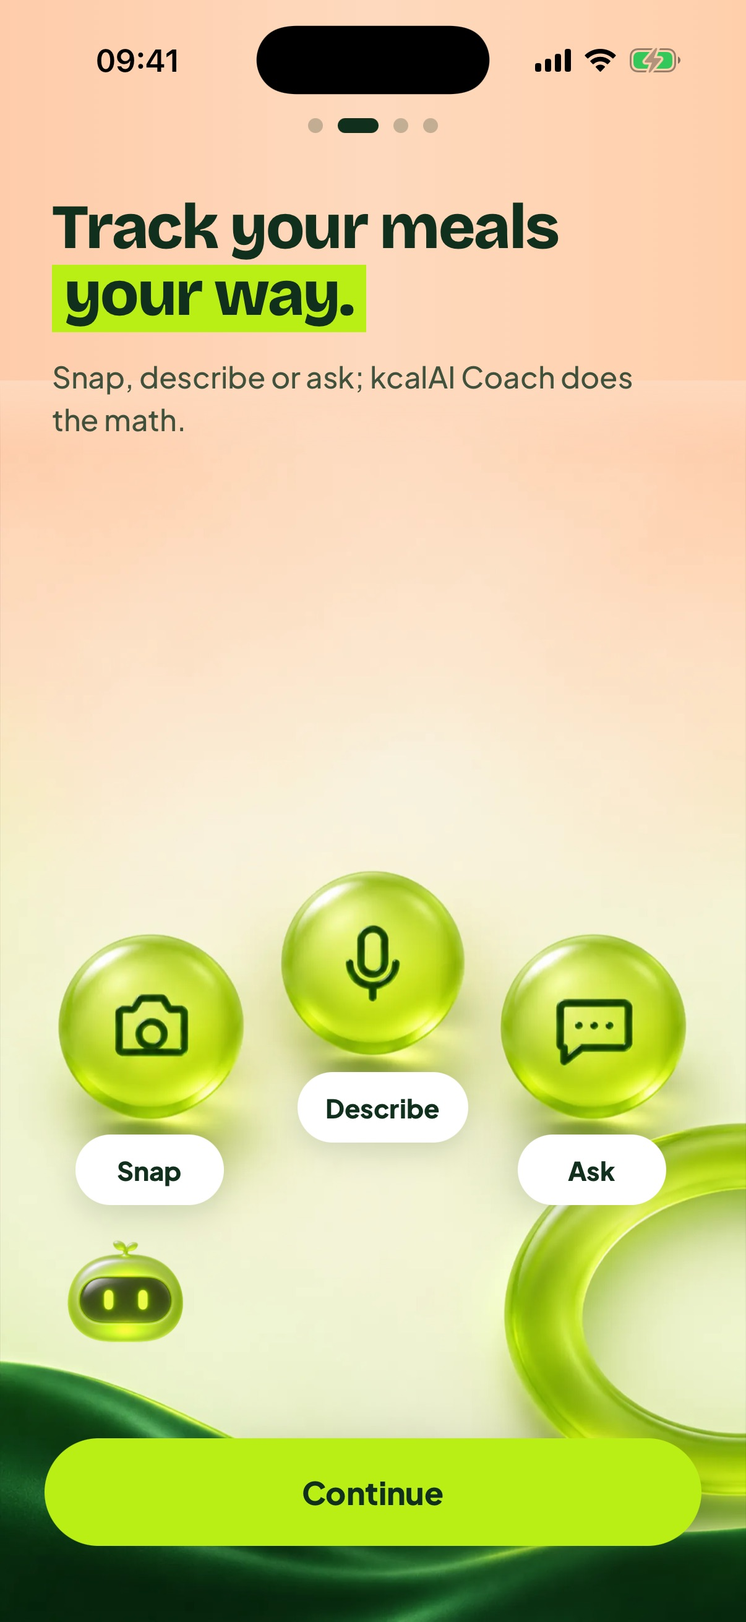
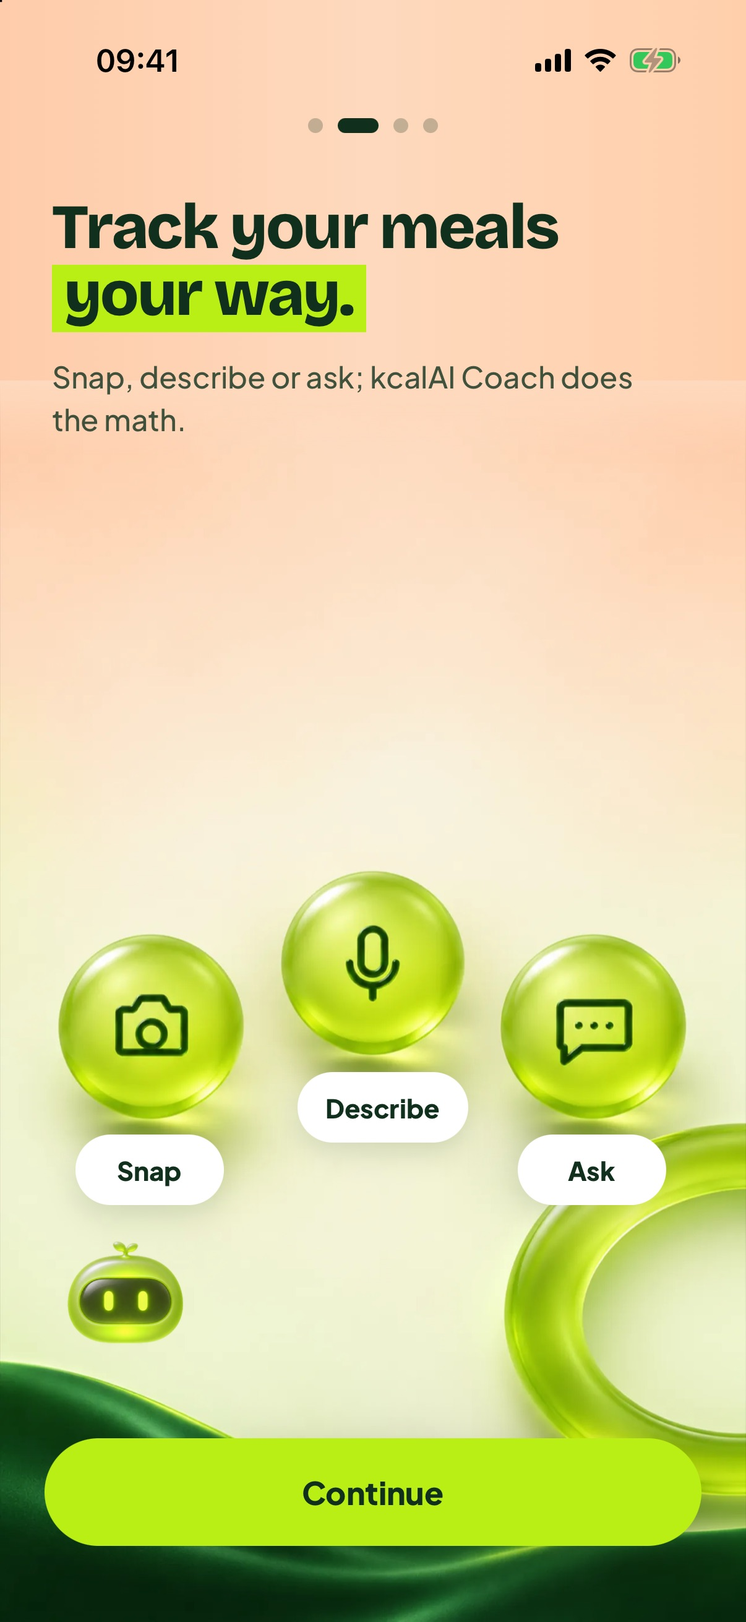
fix(g42): md.10 Apple HIG denetimi duzeltmeleri (onboarding guvenli alan + SE'de segment/Devam cakismasi, VoiceOver geri onAccessibilityEscape, seciilmeyen kart metni soluklasmaz (AA), segment 44 pt, T1 tasarruf rozeti bosluk, OTP grubu rol/deger, L1 canli bolge, ekran okuyucuda otomatik gecis yok);

Changed region(s): [[0.3375, 0.0, 0.675, 0.0618], [0.092, 0.7414, 0.2148, 0.8341]]

diff --git a/src/modules/kayit/screens/OnboardingScreen.tsx b/src/modules/kayit/screens/OnboardingScreen.tsx
@@ -10,6 +10,7 @@ import { Image, Pressable, StyleSheet, View, useWindowDimensions } from 'react-n
 import { LinearGradient } from 'expo-linear-gradient';
 import Animated, { useAnimatedStyle, useSharedValue, withTiming } from 'react-native-reanimated';
 import { useNavigation } from '@react-navigation/native';
+import { useSafeAreaInsets } from 'react-native-safe-area-context';
 import { StatusBar } from 'expo-status-bar';
 import { AppText, CURVE, DURATION, REDUCED, haptic, useReducedMotion } from '../../../core/design';
 import { useT } from '../../../core/i18n';
@@ -144,11 +145,16 @@ export default function OnboardingScreen({ vitrinStep }: { /** YALNIZ geliştirm
   const sub = t(`kayit.onb.s${step}.sub`);
   const fs = step === 1 ? 36 : step === 4 ? 30 : 34;
   const titleTop = step === 1 ? undefined : (step === 4 ? 84 : 104) * sy;
-  const btnB = (step === 4 ? 20 : 40) * sy;
+  // HIG: alt öğeler ev göstergesi alanının üstünde kalır; küçük ekranda (SE) segment Devam ile çakışmaz.
+  const insets = useSafeAreaInsets();
+  const btnB = Math.max((step === 4 ? 20 : 40) * sy, insets.bottom + 4);
+  const next5B = Math.max(84 * sy, insets.bottom + 48);
+  const login5B = Math.max(40 * sy - 12, insets.bottom);
+  const segTop = Math.min(646 * sy, H - next5B - 56 - 56);
   const btnH = step === 4 ? 52 : 58;
 
   return (
-    <View style={styles.root} {...edge} testID="kayit-onb">
+    <View style={styles.root} {...edge} testID="kayit-onb" onAccessibilityEscape={back ?? undefined}>
       <StatusBar style={dark ? 'light' : 'dark'} />
       {/* Panorama: 5 panel yan yana */}
       <Animated.View style={[{ position: 'absolute', top: 0, bottom: 0, left: 0, width: W * 5, flexDirection: 'row' }, panStyle]} importantForAccessibility="no-hide-descendants">
@@ -211,18 +217,18 @@ export default function OnboardingScreen({ vitrinStep }: { /** YALNIZ geliştirm
           </View>
           {kisiselPlan ? (
             <>
-              <AppText nativeID="ob-profile-label" maxFontSizeMultiplier={1.3} style={[styles.segLabel, { top: 622 * sy }]}>
+              <AppText nativeID="ob-profile-label" maxFontSizeMultiplier={1.3} style={[styles.segLabel, { top: segTop - 24 }]}>
                 {t('kayit.onb.seg_label')}
               </AppText>
-              <SegmentOnDark top={646 * sy} value={choice} onChange={setChoice} labelNow={t('kayit.onb.seg_now')} labelLater={t('kayit.onb.seg_later')} group={t('kayit.onb.seg_label')} />
+              <SegmentOnDark top={segTop} value={choice} onChange={setChoice} labelNow={t('kayit.onb.seg_now')} labelLater={t('kayit.onb.seg_later')} group={t('kayit.onb.seg_label')} />
             </>
           ) : null}
-          <Pressable testID="kayit-onb-next" onPress={next} accessibilityRole="button" accessibilityLabel={t('kayit.onb.next')} style={[styles.next, { bottom: 84 * sy, height: 56, borderRadius: 28 }]}>
+          <Pressable testID="kayit-onb-next" onPress={next} accessibilityRole="button" accessibilityLabel={t('kayit.onb.next')} style={[styles.next, { bottom: next5B, height: 56, borderRadius: 28 }]}>
             <AppText maxFontSizeMultiplier={1.3} style={styles.nextText}>
               {t('kayit.onb.next')}
             </AppText>
           </Pressable>
-          <View style={[styles.loginRow, { bottom: 40 * sy - 12 }]}>
+          <View style={[styles.loginRow, { bottom: login5B }]}>
             <AppText maxFontSizeMultiplier={1.3} style={styles.loginQ}>
               {t('kayit.onb.login_q')}
             </AppText>
@@ -322,6 +328,7 @@ function SegmentOnDark({ top, value, onChange, labelNow, labelLater, group }: { 
             accessibilityRole="radio"
             accessibilityState={{ checked: on }}
             accessibilityLabel={k === 'a' ? labelNow : labelLater}
+            hitSlop={{ top: 4, bottom: 4 }}
             style={styles.segBtn}
           >
             <AppText maxFontSizeMultiplier={1.2} numberOfLines={1} style={[styles.segText, { color: on ? '#10301D' : '#FFFFFF' }]}>

diff --git a/src/modules/kayit/screens/OfferScreen.tsx b/src/modules/kayit/screens/OfferScreen.tsx
@@ -4,7 +4,7 @@
 // otomatik yenileme metni; geri yükleme. X ilk kareden görünür → HA (Ana sayfa, plan yüklü). Bildirim bandı
 // "Planın e-posta adresine gönderildi" üstten iner (330 ms), 4 sn sonra / dokununca kalkar.
 import React, { useEffect, useMemo, useRef, useState } from 'react';
-import { ActivityIndicator, Pressable, ScrollView, StyleSheet, View } from 'react-native';
+import { AccessibilityInfo, ActivityIndicator, Pressable, ScrollView, StyleSheet, View } from 'react-native';
 import { useNavigation } from '@react-navigation/native';
 import { useSafeAreaInsets } from 'react-native-safe-area-context';
 import { StatusBar } from 'expo-status-bar';
@@ -54,8 +54,14 @@ export default function OfferScreen({ vitrinPhase, vitrinPeriod }: { vitrinPhase
   // Başarı: 2 sn sonra kendiliğinden ana sayfa.
   useEffect(() => {
     if (phase !== 'success' || (__DEV__ && vitrinPhase)) return;
-    const id = setTimeout(goHome, 2000);
-    return () => clearTimeout(id);
+    // HIG: ekran okuyucu açıkken duyuru kesilmesin → otomatik geçiş yok, "Ana sayfaya git" düğmesi kalır.
+    let id: ReturnType<typeof setTimeout> | undefined;
+    void AccessibilityInfo.isScreenReaderEnabled().then((sr) => {
+      if (!sr) id = setTimeout(goHome, 2000);
+    });
+    return () => {
+      if (id) clearTimeout(id);
+    };
     // eslint-disable-next-line react-hooks/exhaustive-deps
   }, [phase]);
 
@@ -204,7 +210,7 @@ function PlanRow({ card, name, sub, recommended, selected, locked, onPress, test
         accessibilityRole="radio"
         accessibilityState={{ checked: selected, disabled: locked }}
         accessibilityLabel={[name, sub, priceLine, card.monthlyText ? t('sub.paywall.per_month_equiv', { price: card.monthlyText }) : null, trial, !card.yearly ? t('kayit.offer.no_trial') : null, recommended ? t('kayit.offer.recommended') : null].filter(Boolean).join(', ')}
-        style={[styles.plan, { backgroundColor: selected ? P.accent : P.card, borderColor: selected ? P.accent : P.cardEdge }]}
+        style={[styles.plan, { backgroundColor: selected ? P.accent : P.card, borderColor: selected ? P.accent : P.cardEdge }, recommended && card.yearly && card.discountPct ? { paddingBottom: 30 } : null]}
       >
         <View style={[styles.radio, { borderColor: selected ? '#10301D' : P.sec, backgroundColor: selected ? 'rgba(255,255,255,0.5)' : 'transparent' }]}>{selected ? <Check size={16} color="#10301D" weight="bold" /> : null}</View>
         <View style={{ flex: 1, gap: 2 }}>

diff --git a/src/modules/kayit/ui/pickers.tsx b/src/modules/kayit/ui/pickers.tsx
@@ -56,7 +56,9 @@ export function ChoiceTile({
     s.value = selected ? withSpring(K_MOTION.pickScale, SPRING.bouncy) : withTiming(dimmed ? K_MOTION.dimScale : 1, { duration: K_MOTION.fast });
   }, [selected, dimmed, reduced, s]);
   const rise = useAnimatedStyle(() => ({
-    opacity: o.value * (dimmed ? K_MOTION.dimOpacity : 1),
+    // HIG/AA: soluklaştırma metne uygulanmaz (14 pt ikincil metin 4,5:1 altına düşüyordu); seçilmeyen kart
+    // yalnız 0,97 ölçek + saydam zeminle geri çekilir.
+    opacity: o.value,
     transform: [{ translateY: reduced ? 0 : (1 - o.value) * (16 + delay / 20) }, { scale: s.value }],
   }));
   return (
@@ -72,7 +74,7 @@ export function ChoiceTile({
         accessibilityLabel={sub ? `${label}, ${sub}` : label}
         style={[
           wide ? styles.tileWide : styles.tile,
-          { backgroundColor: selected ? P.accent : P.card, borderColor: selected ? P.accent : P.cardEdge },
+          { backgroundColor: selected ? P.accent : dimmed ? 'transparent' : P.card, borderColor: selected ? P.accent : P.cardEdge },
         ]}
       >
         {Ico ? (
@@ -125,7 +127,7 @@ export function OptionCard({ label, sub, icon: Ico, selected, dimmed, onPress, t
       accessibilityLabel={sub ? `${label}, ${sub}` : label}
       style={({ pressed }) => [
         styles.option,
-        { backgroundColor: selected ? P.accent : P.card, borderColor: selected ? P.accent : P.cardEdge, opacity: dimmed ? 0.7 : 1 },
+        { backgroundColor: selected ? P.accent : dimmed ? 'transparent' : P.card, borderColor: selected ? P.accent : P.cardEdge },
         pressed ? { transform: [{ scale: 0.98 }] } : null,
       ]}
     >

diff --git a/src/modules/kayit/screens/SignupScreens.tsx b/src/modules/kayit/screens/SignupScreens.tsx
@@ -403,7 +403,7 @@ export function EmailScreen() {
             <AppText maxFontSizeMultiplier={1.4} style={[styles.hint, { color: P.sec }]}>
               {t('kayit.signup.code_sub')}
             </AppText>
-            <Pressable onPress={() => inputRef.current?.focus()} accessibilityLabel={t('kayit.signup.code_label')} accessibilityHint={t('kayit.signup.code_sub')} style={styles.codeRow} disabled={expired || verifying}>
+            <Pressable onPress={() => inputRef.current?.focus()} accessibilityRole="button" accessibilityLabel={t('kayit.signup.code_label')} accessibilityValue={{ text: `${code.length}/${CODE_LENGTH}` }} accessibilityHint={t('kayit.signup.code_sub')} style={styles.codeRow} disabled={expired || verifying}>
               {Array.from({ length: CODE_LENGTH }).map((_, i) => {
                 const active = !expired && i === Math.min(code.length, CODE_LENGTH - 1);
                 return (
@@ -441,7 +441,7 @@ export function EmailScreen() {
               />
             </Pressable>
             {expired ? (
-              <Pressable testID="kayit-code-new" onPress={() => void send()} accessibilityRole="link" style={styles.link}>
+              <Pressable testID="kayit-code-new" onPress={() => void send()} accessibilityRole="button" style={styles.link}>
                 <AppText maxFontSizeMultiplier={1.4} style={[styles.linkText, { color: P.ink }]}>
                   {t('kayit.signup.code_new')}
                 </AppText>

diff --git a/src/modules/kayit/ui/parts.tsx b/src/modules/kayit/ui/parts.tsx
@@ -501,9 +501,9 @@ const styles = StyleSheet.create({
   overlayText: { position: 'absolute', left: 0, top: 0, right: 0 },
   btn: { height: 56, borderRadius: 28, alignItems: 'center', justifyContent: 'center', paddingHorizontal: 16 },
   btnText: { fontFamily: FONT.bold, fontSize: 17 },
-  seg: { height: 48, borderRadius: 24, padding: 4, flexDirection: 'row', alignSelf: 'center' },
-  segThumb: { position: 'absolute', top: 4, bottom: 4, left: 4, borderRadius: 20 },
-  segItem: { flex: 1, alignItems: 'center', justifyContent: 'center', minHeight: 40 },
+  seg: { height: 52, borderRadius: 26, padding: 4, flexDirection: 'row', alignSelf: 'center' },
+  segThumb: { position: 'absolute', top: 4, bottom: 4, left: 4, borderRadius: 22 },
+  segItem: { flex: 1, alignItems: 'center', justifyContent: 'center', minHeight: 44 },
   segText: { fontFamily: FONT.bold, fontSize: 15 },
   checkRow: { flexDirection: 'row', alignItems: 'center', gap: 14, borderRadius: 22, borderWidth: 1, paddingHorizontal: 16, paddingVertical: 16, minHeight: 64 },
   box: { width: 28, height: 28, borderRadius: 8, borderWidth: 2, alignItems: 'center', justifyContent: 'center' },

diff --git a/src/modules/kayit/screens/PlanScreens.tsx b/src/modules/kayit/screens/PlanScreens.tsx
@@ -140,7 +140,7 @@ export function CalcScreen() {
             <NoticeCard testID="kayit-calc-offline" title={t('kayit.plan.offline_title')} sub={t('kayit.plan.offline_sub')} action={{ label: t('kayit.plan.retry'), onPress: () => setRun((r) => r + 1) }} />
           ) : null}
           {rows.map((r, i) => (
-            <View key={i} style={[styles.calcRow, { backgroundColor: P.card, borderColor: P.cardEdge }]} accessible accessibilityLabel={t(r.done ? r.ok : r.active ? r.act : r.idle)}>
+            <View key={i} style={[styles.calcRow, { backgroundColor: P.card, borderColor: P.cardEdge }]} accessible accessibilityLiveRegion={r.active ? 'polite' : 'none'} accessibilityLabel={t(r.done ? r.ok : r.active ? r.act : r.idle)}>
               <RingProgress size={28} stroke={4} progress={r.done ? 1 : r.active && !offline ? 0.5 : 0} color={P.ringFill} track={P.ringTrack} />
               <AppText maxFontSizeMultiplier={1.4} style={[styles.calcRowText, { color: r.done || r.active ? P.ink : P.sec }]}>
                 {t(r.done ? r.ok : r.active ? r.act : r.idle)}

diff --git a/src/modules/kayit/screens/QuestionsScreen.tsx b/src/modules/kayit/screens/QuestionsScreen.tsx
@@ -205,7 +205,7 @@ export default function QuestionsScreen() {
   const stepIdx = useMemo(() => ['goal', 'gender', 'birth', 'height', 'weight', 'i1', 'target', 'pace', 'activity', 'sport', 'diet', 'i2', 'dislikes', 'meals', 'cooking', 'struggle', 'minor'].indexOf(step), [step]);
 
   return (
-    <View style={styles.root} {...edge} testID={`kayit-q-${step}`}>
+    <View style={styles.root} {...edge} testID={`kayit-q-${step}`} onAccessibilityEscape={back}>
       <StatusBar style={P.isDark ? 'light' : 'dark'} />
       <KBackdrop shift={stepIdx} />
       <View style={{ paddingTop: insets.top + 8, flex: 1 }}>

diff --git a/docs/night/G42-S1-LOG.md b/docs/night/G42-S1-LOG.md
@@ -1,0 +1,133 @@
+# G42-S1 — Yeni onboarding + kayıt ve kişisel plan akışı (13–14 Kas)
+
+Worktree `~/dev/kcal-mobile/.claude/worktrees/g42-s1`, dal `feat/kayit-v2` (`release/1.1.0` / `89f92c9` üstünden). Yalnız JS/TS + asset (OTA uyumlu). Yeni paket yok. Deploy, OTA ve canlı DB yazımı yapılmadı.
+
+## ÖZET
+1. **md.1** `yeni_kayit` bayrağı eklendi (yerel varsayılan KAPALI). Migration yalnız DOSYA olarak yazıldı: `20261113120100_g42_yeni_kayit.sql` + rollback. A yolu ayrıca `kisisel_plan` ister; o kapalıysa 5. ekrandaki segment gizlenir ve herkes B yoluna gider. Bayrak kapalıyken `Kayit`/`KayitShort` rotaları kayıtlı değil, açılış rotası zinciri aynı. Bu, `flagOffRoutes` testi ve bileşen testiyle doğrulandı.
+2. **md.2** 5 ekranlık onboarding OBS'ye birebir yapıldı: panorama (450 ms), maskot ayrı katmanda (M tablosu), süzülme ve göz kırpma, Azaltılmış hareket desteği, Çek/Anlat/Sor çipleri, başlangıç kartları ve Şimdi/Sonra segmenti. Atla yok; geri hareketi önceki ekrana döner; uygulama kapanıp açılınca kaldığı ekrandan devam eder. Referansla ölçülen genel SSIM: 8 panoda 0,800–0,877. 4. ekranda 0,78; nedeni, Devam düğmesinin HIG gereği ev göstergesi alanının üstüne taşınması.
+3. **md.3** A yolu P1–P14 tamamlandı. Koşullar: P3b, P6/P6k, P7/P7g, I1/I2 ara ekranları, görünen soru sayısına göre değişen ilerleme halkası, cm/kg ↔ ft-in/lb birim anahtarı (EN'de cihaz bölgesine göre).
+4. **md.4** L1 ve L2, MEVCUT G34 `computePlan` ile hesaplanıyor. Kas kazanmak = TDEE + `app_settings` 250 kcal. L2'de kilo tahmini bir aralık bandı olarak gösteriliyor; ayrıca öğün dağılımı, G33 kataloğundan 3 tarif ve koşullu eatkcal kartı var.
+5. **md.5/6** K1/E1/E2 mevcut `useAuth` üzerine kuruldu; iki isteğe bağlı kutu işaretsiz geliyor. Plan e-postası için mevcut Resend altyapısıyla `plan-email` edge function DOSYASI yazıldı (**deploy gerekir**). Deploy olmadan e-posta bandı gösterilmez.
+6. **md.7** R1: taslak cihazda 7 gün tutuluyor, süre dolunca sessizce siliniyor. **md.8** T1 mevcut RevenueCat kartları ve satın alma akışıyla yapıldı. **md.9** B yolu (kısa profil = mevcut takip kapısı) tamamlandı; "Planını geliştir" kartının yeri ayrıldı.
+7. **md.10** Hareket token'ları kullanıldı. Dokunma alanı ≥ 44 pt, VoiceOver etiketleri, Dynamic Type tavanları ve Azaltılmış hareket desteği var. **md.11** 8 huni olayı eklendi; olaylara sağlık değeri gönderilmiyor.
+8. **md.12** Kontroller: hygiene ✓ · tsc ✓ · unit **1311 geçti / 0 kaldı / 1 atlandı** (1312) ✓ · jest **673/673** ✓ · `expo export` iOS ✓ · Android ✓. 38 ekran görüntüsü + 10 yan yana karşılaştırma `docs/night/g42/` altında.
+
+## Commit
+| commit | içerik |
+|---|---|
+| cbf79e2 | md.1 bayrak + migration/rollback, md.11 olay sözlüğü, saf model (koşullar, halka, birim, plan, 7 gün), sahne WebP betiği + `assets/onboarding` |
+| 8473cc9 | md.2 onboarding 5 ekran + md.10 kayıt temel parçaları (zemin, maskot, halka, balon, düğme, segment) |
+| 93fe570 | md.3 P1–P14 + bileşenler (kart, tekerlek, cetvel, tempo, galeri, gün, çip, etiket bulutu, tabak) |
+| 8738622 | md.4 L1 + L2 |
+| a04811d | md.5 K1/E1/E2 + md.6 `plan-email` (dosya) |
+| 9c3cb22 | md.7 R1 |
+| eb08546 | md.8 T1 |
+| bdad06d | md.9 B yolu + kısa profil kapısı + "Planını geliştir" yeri; kök navigasyon bağlantısı |
+| 0cf044f | vitrin `G42-*` (yalnız `__DEV__`) + birim testleri |
+| 98f62dd | md.12 bileşen testleri |
+| b00012e | simülatör düzeltmeleri + ekran görüntüleri + karşılaştırmalar |
+| 6dc8922 | md.10 kaydırma kapları ortak klavye özellikleri (`SCROLL_KEYBOARD`) |
+| (son-1) | HIG denetimi düzeltmeleri + güncel ekran görüntüleri + LOG |
+| (son) | `docs/night/G42-S1-DONE` |
+
+## Migration'lar (YALNIZ DOSYA — uygulanmadı)
+- `supabase/migrations/20261113120100_g42_yeni_kayit.sql`
+  - `feature_flags`: `yeni_kayit` (enabled=false, rollout 0, min_app_version 1.1.0)
+  - `app_settings`: `kayit_muscle_surplus_kcal = 250`, `kayit_plan_email_enabled = true`
+  - `analytics_event_names`: `onb_step_view`, `onb_path_choice`, `reg_q_answer`, `plan_ready`, `reg_signup_method`, `meta_consent`, `paywall_view_reg`, `trial_start_reg`
+- Rollback: `supabase/rollbacks/20261113120100_g42_yeni_kayit_rollback.sql`
+- Yeni tablo veya kolon yok. Plan G34 kolonlarına yazılıyor (`user_nutrition_profiles.personal_plan` + `target_*`). Kayıt akışına özgü cevaplar jsonb'de `kayit` anahtarında.
+- Ön koşul: G34 (`20261112110100`) ve G36 migration'ları canlıda olmalı. G34 kolonları yoksa `savePlan` mevcut kolonlara düşer (yalnız hedefler kaydedilir).
+
+## CANLIYA UYGULANACAK
+1. `supabase db push` → `20261113120100_g42_yeni_kayit.sql` (G34 migration'ı uygulandıktan sonra).
+
+## DEPLOY GEREKİR
+1. `supabase functions deploy plan-email` (`RESEND_API_KEY` mevcut sırrı kullanılır). Deploy edilmezse çağrı 404 döner ve uygulama bandı göstermez; kayıt akışı etkilenmez.
+2. OTA: bu dal yalnız JS + asset içeriyor. `release/1.1.0`'a merge, İlter onayıyla ve G41 build'inden sonra yapılacak.
+
+## Bayrak açma adımları
+1. Migration'ı uygula (yukarıda). Bayrak satırı KAPALI olarak oluşur.
+2. `plan-email` fonksiyonunu deploy et (isteğe bağlı; deploy yoksa bant çıkmaz).
+3. Diyetisyen onayı gelene kadar `kisisel_plan` kapalı kalsın: `yeni_kayit` açılınca herkes B yoluna gider (kayıt → ana sayfa → ilk kalori kaydında kısa profil).
+4. Test: `update feature_flags set enabled = true, rollout_percent = 100 where key = 'yeni_kayit';` (önce iç test için `rollout_percent` düşük). Bayrak soğuk açılışta bir kez okunur, yani uygulama yeniden açılınca etkinleşir.
+5. A yolu için ayrıca `kisisel_plan` açılır. T1 için `abonelik` + RevenueCat anahtarları gerekir; koç metni `koc` açıksa görünür.
+6. Geri alma: bayrağı kapat (soğuk açılışta eski akış) ya da rollback dosyasını uygula.
+
+## KARAR
+1. **Sahne 2/3 boyutu**: görev "1290×2796, ortadan kırp" diyordu. OBS ise bu iki sahneyi genişliğe oturtup alta yaslıyor (`height: 393·3840/2307; bottom: 0` + 40 pt geçiş maskesi). Ortadan kırpınca küreler/çipler ~100 pt kayıyor ve OB-TR-02/03 referansından sapıyordu. Bu yüzden 1290×2147 olarak genişliğe oturtuldu; hiçbir şey kesilmiyor. Boyutlar 41–133 KB (≤ 400 KB). Betik: `scripts/build-onboarding-scenes.sh` (`sips` + `cwebp`).
+2. **5. ekran kart ikonları** sahne-5 görseline gömülü (OBS kartı `padding-left: 92`). Uygulama yalnız kart çerçevesini ve metni çiziyor. Seçili kart lime kenar alıyor (tasarımda seçili hâl yok; erişilebilir radio için eklendi). Hiçbiri seçilmezse "Takip" varsayılır.
+3. **Maskot**: OBS SVG yerine `assets/coach/koc-acik/kapali.png` kullanıldı (G39 varlıkları; referans görsellerdeki 3B maskotla aynı). Göz kırpma için açık/kapalı görseller değiştiriliyor.
+4. **Sağlık verisi açık rızası**: tasarımda ayrı bir rıza adımı yok, ama boy/kilo/yaş/hedef KVKK'da sağlık verisi sayılıyor. Mevcut G27/G36 altyapısı kullanıldı: L2'de "Planımı kaydet" düğmesinin üstünde işaretsiz bir rıza satırı var, işaretlenmeden kayıt yapılamaz. B yolunda aynı satır kısa profilin son adımında. Daha önce rıza verilmişse satır gizlenir. Kayıt öncesi cevaplar yalnız cihazda tutuluyor.
+5. **B yolunda 18+**: doğum yılı kayıttan önce sorulmadığı için mevcut LoginV2 kuralı (18+ beyan kutusu) K1b'ye zorunlu ve işaretsiz bir kutu olarak kondu. A yolunda yaş P3'ten biliniyor.
+6. **Sistem geri hareketi**: `react-native-gesture-handler` projede yüklü değil (yeni paket yasak). Onboarding ve sorular tek rota içinde adım değiştiriyor; sol kenar kaydırma PanResponder ile, Android geri tuşu BackHandler ile yapıldı. K1→E1→E2 yığın geçişi native.
+7. **"Paylaşılan öğe" geçişi** (seçilen kart → sonraki başlık) birebir yapılmadı. Yerine içerik 330 ms sağdan kayıyor, arkadaki 3 ışık katmanı farklı hızlarda kayıyor (paralaks), O5→P1 550 ms sahne geçişi var. Gerçek paylaşılan öğe için reanimated `sharedTransitionTag` native-stack sürümünde deneysel.
+8. **T1 X → HA** her zaman Ana sayfa (görev md.8). Başlangıç kartına göre ilk sekme seçimi B yolunda uygulanıyor (Takip → Ana sayfa, Tarif ve sipariş / Etkinlik ve topluluk → Keşfet; `kesfet` kapalıysa Ana sayfa).
+9. **"Bu e-posta zaten kayıtlı" (D-E1-kayitli)**: istemci, hesabın var olup olmadığını sunucuya sormadan bilemiyor (e-posta numaralandırma riski). Supabase OTP yeni ve eski hesapta aynı çalışıyor; ayrı bir hâl yapılmadı.
+10. **R1 depolama**: AsyncStorage (uygulama kum havuzu, iOS veri koruması). Şifreli depo için `expo-secure-store` paketi yüklü değil ve yeni paket yasak. 7 gün ilk çıkıştan sayılıyor; her cevap süreyi uzatmıyor.
+11. **L2 tarif görselleri**: G33 tarif kataloğunda fotoğraf yok, cam kase (`assets/glass/bowl.png`) yer tutucu olarak kullanıldı. Katalog boşsa (üretimde yayımlanmış tarif yok) bölüm gizleniyor.
+12. **Kas kazanmak**: G34 motorunda 'gain' tempolu fazla demek (0,25 → 275 / 0,5 → 300, en çok 300). Görev "+250 sabit, tempo yok" diyor. Bu yüzden motorun koru (maintain) TDEE'si + `app_settings` fazlası kullanıldı, makrolar aynı `computeMacros` ile hesaplandı. Yeni formül yok. "Kilo almak" motorun 'gain' + 0,25/0,5 temposu.
+13. **G34 HomePlanCard**: `yeni_kayit` açıkken bu kart "Planını geliştir" yerine (`PlanImproveSlot`) devrediyor, iki kart aynı anda görünmüyor. `yeni_kayit` kapalıyken G34 davranışı aynı.
+14. **Pazarlama onayı** mevcut `notification_preferences.marketing_enabled` alanına yazılıyor (`setMarketingOptIn`). Kutu işaretsizse hiçbir şey yazılmıyor (varsayılan kapalı).
+
+## Ekran görüntüleri (`docs/night/g42/`)
+Simülatör: mevcut "G40 iPhone" (`D2B68EDD-…`, 1.1.0 dev build). Native derleme yapılmadı (boş disk 18 GB < 20 GB). Metro bu worktree'den 8142 portunda çalıştı. Çekim `scripts/dev/g14-shots.sh` (storage kipi) + vitrin `G42-*` ile yapıldı.
+- Onboarding: `G42-Onb1…5` (TR), `EN-G42-Onb1…5` (EN)
+- A yolu: `G42-P1`, `P3`, `P4` (+`EN-G42-P4`), `P7`, `P8`, `P11`, `P13`, `I1`, `L1`, `L2`, `K1`, `K1b`, `E2`, `T1` (yıllık), `T1m` (aylık), `R1`
+- B yolu kısa profil: `G42-BShort` (B-P1), `G42-BShort8` (B-P8 + rıza + "Takibe başla")
+- Dark: `G42-P1-Dark`, `P4-Dark`, `L1-Dark`, `L2-Dark`, `K1-Dark`, `E2-Dark`, `T1-Dark`, `BShort8-Dark`
+- Yan yana (referans | simülatör): `karsilastirma/OB-TR-01…05-yanyana.jpg`, `OB-EN-01…05-yanyana.jpg`
+
+### Ölçüm (referans OB-*.jpg ↔ simülatör, gri ton SSIM, 8×8 pencere, 300 px)
+| pano | genel | üst (0–30%) | orta | alt (75–100%) |
+|---|---|---|---|---|
+| OB-TR-01 | 0,815 | 0,875 | 0,835 | 0,739 |
+| OB-TR-02 | 0,859 | 0,700 | 0,937 | 0,934 |
+| OB-TR-03 | 0,872 | 0,748 | 0,902 | 0,959 |
+| OB-TR-04 | 0,781 | 0,755 | 0,869 | 0,670 |
+| OB-TR-05 | 0,800 | 0,895 | 0,764 | 0,783 |
+| OB-EN-01 | 0,855 | 0,871 | 0,903 | 0,754 |
+| OB-EN-02 | 0,872 | 0,749 | 0,932 | 0,936 |
+| OB-EN-03 | 0,877 | 0,761 | 0,904 | 0,960 |
+| OB-EN-04 | 0,780 | 0,744 | 0,869 | 0,670 |
+| OB-EN-05 | 0,800 | 0,860 | 0,778 | 0,784 |
+
+Bölgelerdeki farkların nedenleri:
+- **Üst (2–4)**: referansta durum çubuğu ve Dynamic Island yok, simülatörde var. Ayrıca vurgulu hapın köşesi: RN'de iç içe metin `border-radius` desteklemiyor, bu yüzden hap köşeli. Alt metin satır kırılımı da farklı: OBS'deki `text-wrap: balance`, RN'de yok.
+- **Alt (1)**: başlık satır kırılımı farklı ("Hayatına / yön vermeye" yerine "Hayatına yön / vermeye"). Sebep `text-wrap: balance` yokluğu.
+- **Orta (5)**: kartlar sabit konumda; seçili kart lime kenar alıyor (KARAR 2).
+- **Alt (4, 5) — HIG gereği bilinçli sapma**: OBS'de 4. ekranın Devam düğmesi alttan 20 pt, 5. ekranın "Giriş yap" satırı ~28 pt yukarıda. İkisi de iPhone'un 34 pt'lik ev göstergesi alanında kalıyordu. HIG denetiminden sonra alt öğeler `safeAreaInsets.bottom` üstüne alındı (Devam ~14 pt yukarı). Bu yüzden 4. ekranın alt bölgesi 0,67'ye, geneli 0,78'e düştü. Küçük ekranda (iPhone SE) segment ile Devam düğmesinin çakışması da bu sırada giderildi (segment konumu Devam'a göre sınırlanıyor).
+- Konumlar OBS'nin 393×852 çerçevesinden ekrana ölçekleniyor (cihaz 402×874).
+
+## Apple HIG denetimi (apple-design-skill, kod denetimi kipi)
+Denetimi bir alt ajan yaptı (apple-design-skill, kod denetimi kipi; kod + 7 ekran görüntüsü). Bulgular ve yapılanlar:
+
+**Düzeltildi**
+- (Yüksek) Onboarding'de güvenli alan yoktu: 4. ekranın Devam düğmesi ve 5. ekranın "Giriş yap" satırı ev göstergesi alanındaydı. Artık `insets.bottom` üstündeler.
+- (Yüksek) iPhone SE'de (667 pt) 5. ekran segmenti Devam ile ~4,6 pt çakışıyordu. Segment konumu artık Devam'a göre sınırlanıyor.
+- (Yüksek) Seçilmeyen kartlar %62/%70 opaklıkla soluklaştırılıyordu; 14 pt ikincil metin ~2,5:1 kontrasta düşüyordu (AA 4,5:1 altında). Artık metin soluklaşmıyor: seçilmeyen kart 0,97 ölçek + saydam zeminle geri çekiliyor. Tasarımdaki "%62 opaklık" bu nedenle uygulanmadı. Hareket galerisinin yan kartları tasarımdaki gibi %62 kaldı (yarısı ekran dışında olan önizleme kartları).
+- (Yüksek) VoiceOver ile onboarding'de geri dönülemiyordu (görünür geri düğmesi yok, kenar kaydırma VoiceOver'da çalışmaz). Onboarding ve soru ekranlarına `onAccessibilityEscape` (iki parmak "Z" hareketi) eklendi.
+- (Orta) T1'de "%… tasarruf" rozeti "ayda N TL" satırının üstüne biniyordu. Önerilen karta alt boşluk eklendi.
+- (Orta) Segment seçenekleri 40/36 pt'ydi. Artık 44 pt (kayıt segmenti 52 pt kap; onboarding segmentine `hitSlop`).
+- (Orta) OTP kutu grubunun rolü ve değeri yoktu. `accessibilityRole="button"` + "n/6" değeri eklendi.
+- (Düşük) "Yeni kod gönder" rolü link'ten button'a çevrildi. L1'de etkin satıra canlı bölge (polite) eklendi. T1 başarı ekranındaki 2 sn otomatik geçiş, ekran okuyucu açıkken yapılmıyor.
+
+**Açık bırakıldı (gerekçeli)**
+- (Orta) Apple logosu elle çizilmiş SVG yolu. Bu, uygulamanın mevcut giriş ekranlarındaki G18-S5 kararıyla aynı bileşen (`pieces.tsx` AppleLogo). Tasarımda Apple/Google düğmeleri "resmî stil + logo yeri" olarak çizilmiş. Önerilen çözüm `expo-apple-authentication`'ın `AppleAuthenticationButton`'ı (native, paket mevcut) → SORULAR 9.
+- (Orta) K1'deki "Kullanım Koşulları / Gizlilik Politikası" bağlantıları metin içi; dokunma yüksekliği ~20 pt. Tasarım metni böyle. T1'de 44 pt'lik ayrı bağlantılar var → SORULAR 9.
+- (Orta) 5. ekran kart ikonları sahne görseline gömülü. Çok büyük yazıda kart metni büyüyüp ikondan kayabilir (yazı tavanı 1,3×) → KARAR 2.
+- (Düşük) Düğme fiilleri tasarım metniyle aynı bırakıldı ("Apple ile Giriş Yap" / "Google ile devam et"). Google kenar rengi #DADCE0 (mevcut bileşenle aynı).
+
+**Sorunsuz bulunanlar**: 3.1.2 teklif ekranı (fiyat, deneme süresi ve sonrası ücret, 24 saat otomatik yenileme metni, Geri yükle, EULA/Gizlilik 44 pt); Azaltılmış hareket yolları; tekerlek/cetvel/adımlayıcıda `adjustable` + artır/azalt; 52/56 pt ana düğmeler; koyu tema metin kontrastı.
+
+## SORULAR
+1. **4. ekran (Padel/etkinlik)**: uygulamada etkinlik veya buluşma özelliği yok (`etkinlik` bayrağı = egzersiz kaydı, kapalı). Metin geçici olarak "Keşfet'te paylaş, takip et, ilham al." / "Share, follow and get inspired on Explore." yapıldı. Başlık ("Etkinliklere katıl, sosyalleş.") ve sahne-4 görseli (Padel Turnuvası kartı) OBS'deki gibi kaldı. Başlık ve görsel de değişsin mi? 5. ekrandaki "Etkinlik ve topluluk" kartı şimdilik Keşfet'e gidiyor.
+2. **Plan e-postası**: `plan-email` deploy edilsin mi? Gönderen `KCAL <hello@eatkcal.com>`, içerik yalnız plan özeti (hizmet e-postası). Apple gizli adresi için Apple Developer'da e-posta röle alanı `eatkcal.com` kayıtlı olmalı.
+3. **Sağlık rızası yerleşimi** (KARAR 4): L2'deki zorunlu rıza satırı tasarımda yok. Ayrı bir ara ekran mı olsun, yoksa bu yerleşim uygun mu?
+4. **B yolunda 18+ kutusu** (KARAR 5): tasarımda K1b'de yok, ama mevcut kural gerektiriyor. Kalsın mı?
+5. **Kas kazanmak +250** (KARAR 12) ve **tahmini aralık bandı** (hafta × 0,9–1,25): diyetisyen onayı gerekli.
+6. **R1 şifreleme**: `expo-secure-store` (native, yeni build ister) eklensin mi?
+7. **Paylaşılan öğe geçişi** (KARAR 7): reanimated paylaşılan geçişi denensin mi (deneysel)?
+8. **Kayıtlı e-posta hâli** (D-E1-kayitli, KARAR 9): sunucu tarafında bir kontrol istenir mi?
+9. **Apple düğmesi / metin içi yasal bağlantılar** (HIG denetimi): `AppleAuthenticationButton`'a geçilsin mi? K1'e ayrı 44 pt Koşullar · Gizlilik satırı eklensin mi?
+10. "G40 iPhone" simülatörü açık bırakıldı. Kapatmak için: `xcrun simctl shutdown D2B68EDD-D6A9-4059-98B8-232F5CF8A804`.
